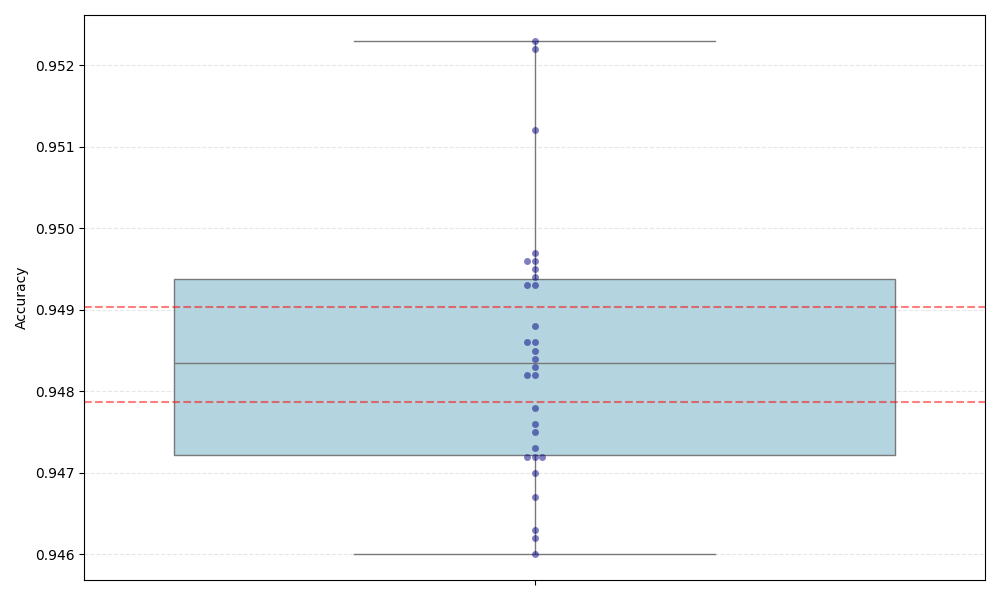
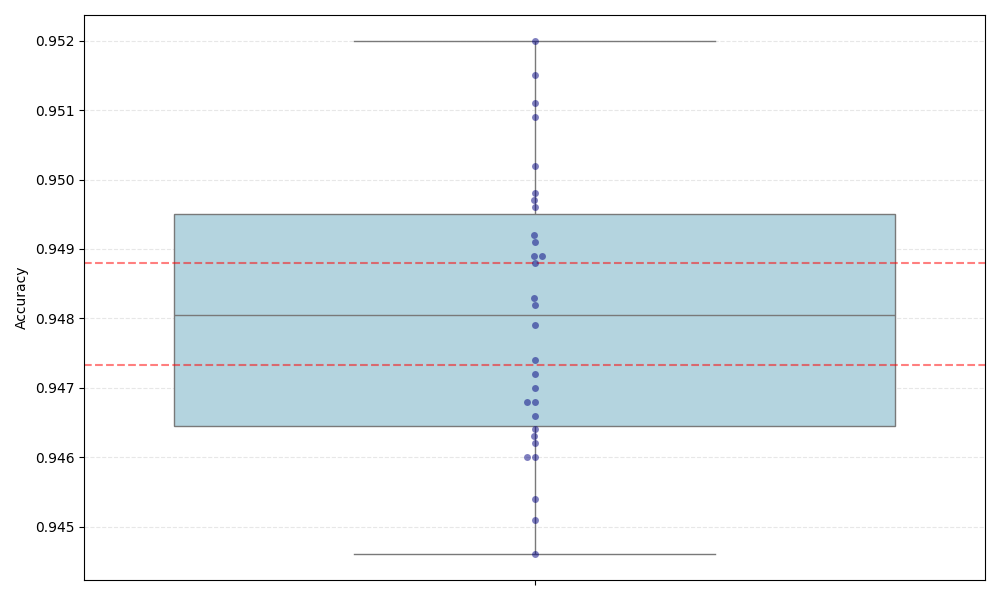
Add readme + fix some names

diff --git a/project1/knn.py b/project1/knn.py
@@ -3,17 +3,13 @@ import numpy as np
 from sklearn.metrics.pairwise import euclidean_distances
 
 
-class KNearestNeighbours:
+class NearestNeighbours:
     """
-    Implements K-Nearest neighbours algorithm
-
-    Arguments:
-
-    `k`: Number of nearest neighbours to consider when classifying a new instance
+    Implements 1-Nearest neighbours algorithm
     """
 
-    def __init__(self, k: int = 1):
-        self.k = k
+    def __init__(self):
+        self.k = 1
         self.train_imgs = None
         self.train_labels = None
 
@@ -23,17 +19,6 @@ class KNearestNeighbours:
         """
         self.train_imgs = train_imgs
         self.train_labels = train_labels
-
-    def predict_instance(self, test_instance):
-        """
-        For a single test instance, return its label by getting the nearest neighbours and computing the label
-
-        Arguments:
-        `test_instance`: A single instance, represented by an `np.array` of size 28x28
-        """
-        dists = euclidean_distances(np.reshape(test_instance, (1, -1)), self.train_imgs)
-        min_idx = np.argmin(dists)
-        return self.train_labels[min_idx]
 
     def predict(self, test_imgs):
         """

diff --git a/project1/main.py b/project1/main.py
@@ -1,5 +1,5 @@
 from dataloader import MNISTDataLoader
-from knn import KNearestNeighbours
+from knn import NearestNeighbours
 from datasampler import *
 import os
 from testbench import TestBench
@@ -29,10 +29,17 @@ if __name__ == "__main__":
     (x_train, y_train), (x_test, y_test) = data_loader.read_data()
     print(x_train[0].shape, y_train[0])
 
-    model = KNearestNeighbours(1)
+    model = NearestNeighbours()
 
     Ms = [1000, 5000, 10000, 20000, 30000]
-    samplers = [StratifiedKMeansSampler]  # , HierarchicalKMeansSampler]
+    samplers = [
+        RandomSampler,]
+    #     RandomClassSampler,
+    #     ProportionalRandomClassSampler,
+    #     KMeansSampler,
+    #     HierarchicalKMeansSampler,
+    #     StratifiedKMeansSampler,
+    # ]
 
     for sampler in samplers:
         for M in Ms:

diff --git a/project1/testbench.py b/project1/testbench.py
@@ -1,6 +1,5 @@
 from datasampler import DataSampler
-from knn import KNearestNeighbours
-import time
+from knn import NearestNeighbours
 import numpy as np
 from scipy import stats
 import json
@@ -10,7 +9,7 @@ import seaborn as sns
 
 
 class TestBench:
-    def __init__(self, clf: KNearestNeighbours = None, sampler: DataSampler = None):
+    def __init__(self, clf: NearestNeighbours = None, sampler: DataSampler = None):
         self.clf = clf
         self.sampler = sampler
         self.result_dir = "results"

diff --git a/project1/README.md b/project1/README.md
@@ -1,0 +1,48 @@
+# Programming project 1 — Prototype selection for nearest neighbors classification
+
+This work implements 5 strategies for sampling $M$ examples from the MNIST dataset of handwritten images, and then runs a 1-Nearest Neighbour classifier trained on this reduced sample of the train set. Each strategy is run 30 times, and the average accuracy and 95% confidence interval is reported in the ```results``` directory, with the appropriate boxplots in the ```plots``` directory. 
+
+The project's file structure is as below, with the dataset extracted in the below format
+
+```
+├── cse251a_proj1_wi25.pdf
+├── dataset
+│   ├── t10k-images-idx3-ubyte
+│   │   └── t10k-images-idx3-ubyte
+│   ├── train-labels.idx1-ubyte
+│   ├── train-images.idx3-ubyte
+│   ├── t10k-labels-idx1-ubyte
+│   │   └── t10k-labels-idx1-ubyte
+│   ├── train-images-idx3-ubyte
+│   │   └── train-images-idx3-ubyte
+│   ├── t10k-labels.idx1-ubyte
+│   ├── t10k-images.idx3-ubyte
+│   └── train-labels-idx1-ubyte
+│       └── train-labels-idx1-ubyte
+├── testbench.py
+├── README.md
+├── dataloader.py
+├── datasampler.py
+├── main.py
+└── knn.py
+```
+
+## Execution
+
+First ensure that the required Python packages are installed by running 
+
+```bash
+pip install -r requirements.txt
+```
+
+Execute the sampling and inference pipeline using 
+
+```bash
+python main.py
+```
+
+## Code Structure
+
+```main.py``` is the entry point of the entire project. It runs the entire sampling and inference pipeline
+
+```testbench.py``` contains code that executes the pipeline in sequence, given a KNea
